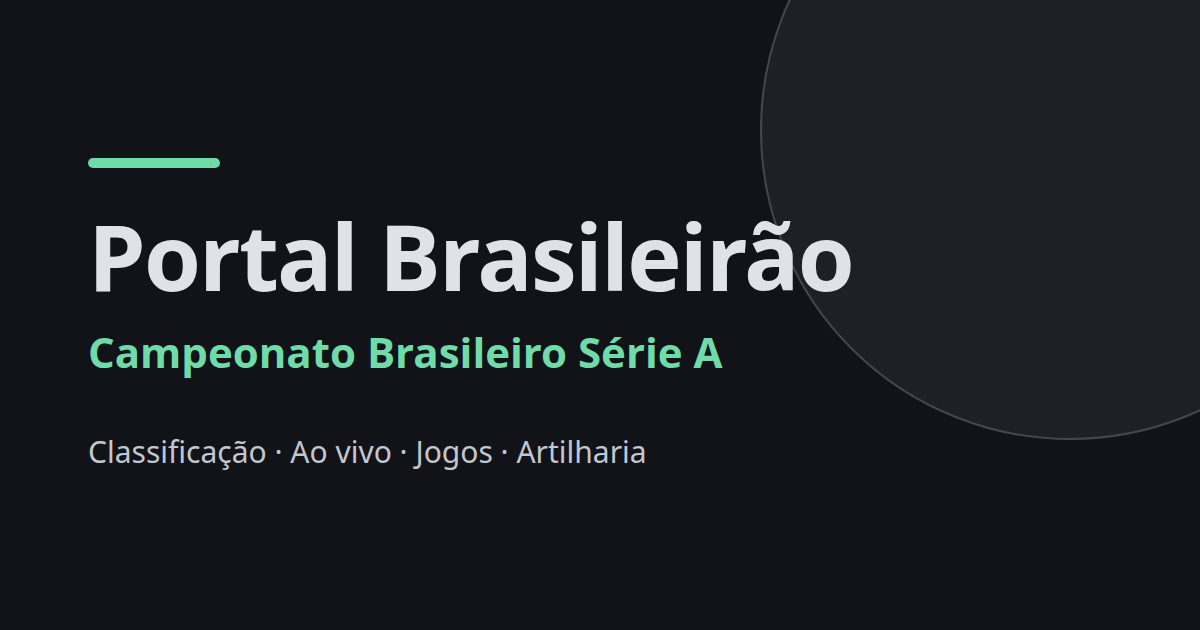
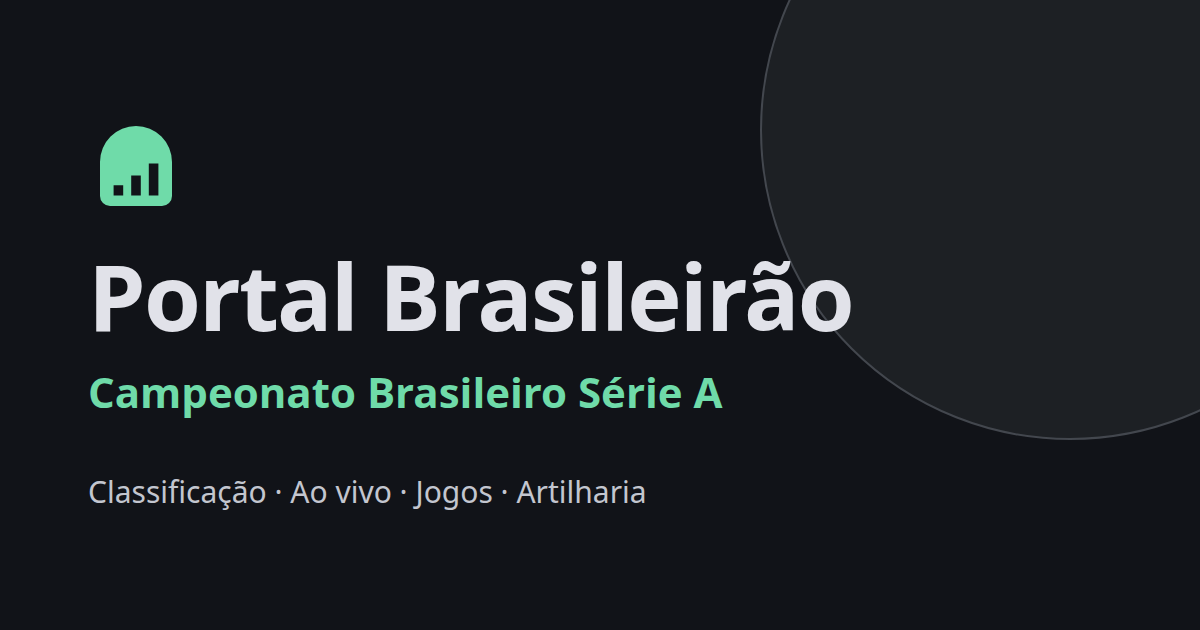
The mark reaches the share card, from one copy of its path
A link to the site unfurled with the wordmark and a 132x10 primary bar
above it. That bar was a placeholder for a brand mark this app did not
have; #300 gave it one, so the mark takes the bar's place rather than
sitting beside it — an accent beside an accent is two accents.

96px, because the card is read as a thumbnail in most feeds and the arch
has to survive next to 92px type.

The off-canvas disc stays, but its comment does not. It was introduced as
"a hint of a ball", and the mark is deliberately not a ball — a site badge
among twenty club crests reads as a twenty-first club. What it still does
is give the flat surface a second tone in the corner the type does not
reach, which is worth keeping under an honest description.

`brand-core.ts` is the reason this is more than a script edit. Drawing the
mark here would have made a FOURTH literal copy of the path, beside
`BrandMark.tsx`, `public/logo.svg` and `public/favicon.svg` — exactly the
drift `StatusChip` and `GLYPH` exist to stop, one asset type further out.
The two TypeScript call sites now import it and the compiler keeps them
honest.

The two `.svg` files cannot import anything and always will hold their own
copy, so `tests/brand-mark.test.ts` reads them off disk and asserts they
match. That failure is invisible from every direction otherwise: a path
edited in one place and not the other type-checks, builds, passes all 804
specs, and ships a tab icon subtly different from the header. It also
[…]

Changed region(s): [[0.0617, 0.3317, 0.7092, 0.6635], [0.0617, 0.6937, 0.555, 0.8143], [0.0617, 0.181, 0.185, 0.3317]]

diff --git a/scripts/generate-og-image.ts b/scripts/generate-og-image.ts
@@ -38,6 +38,7 @@ import { chromium } from "@playwright/test";
 // The size and the output path come from the module that advertises them in
 // `og:image:width`/`height`. A second copy here is how the tags come to promise
 // a box the file does not fill.
+import { BRAND_MARK_PATH, BRAND_MARK_VIEWBOX } from "@/brand-core";
 import { OG_IMAGE_HEIGHT, OG_IMAGE_PATH, OG_IMAGE_WIDTH } from "@/page-meta-core";
 
 const OUT_PATH = path.join(process.cwd(), "public", OG_IMAGE_PATH.replace(/^\//, ""));
@@ -95,16 +96,27 @@ const card = (t: Record<TokenName, string>): string => `<!doctype html>
     display: flex; flex-direction: column; justify-content: center;
     padding: 0 88px; position: relative; overflow: hidden;
   }
-  /* Off-canvas disc: a hint of a ball without depending on an emoji font
-     being installed on whichever machine runs this. */
+  /* Off-canvas disc. It was introduced as "a hint of a ball", and it is not
+     one any more: the card now carries the real mark, and the mark is
+     deliberately not a ball — a site badge among twenty club crests reads as a
+     twenty-first club. What it still does is give the flat surface a second
+     tone in the corner the type does not reach, which is worth keeping. */
   .disc {
     position: absolute; right: -180px; top: -180px;
     width: 620px; height: 620px; border-radius: 50%;
     background: ${t["color-surface-container"]};
     border: 2px solid ${t["color-outline-variant"]};
   }
-  .rule { width: 132px; height: 10px; border-radius: 5px;
-          background: ${t["color-primary"]}; margin-bottom: 40px; }
+  /* The mark, where a 132x10 primary bar used to stand in for one. That bar
+     was a placeholder for a brand mark this app did not have; keeping both
+     would be an accent beside an accent. 96px because the card is read as a
+     thumbnail in most feeds, where the arch has to survive alongside 92px
+     type. It carries no <title> and is aria-hidden by omission: this is a
+     raster in the end, and the alt text is whatever the sharing surface
+     shows. */
+  .mark { width: 96px; height: 96px; margin-bottom: 34px; position: relative;
+          color: ${t["color-primary"]}; }
+  .mark svg { display: block; width: 100%; height: 100%; }
   h1 { font-size: 92px; line-height: 1.04; font-weight: 800; letter-spacing: -0.02em;
        color: ${t["color-on-surface"]}; position: relative; }
   h2 { font-size: 42px; line-height: 1.25; font-weight: 600; margin-top: 22px;
@@ -113,7 +125,7 @@ const card = (t: Record<TokenName, string>): string => `<!doctype html>
               color: ${t["color-on-surface-variant"]}; position: relative; }
 </style></head><body>
   <div class="disc"></div>
-  <div class="rule"></div>
+  <div class="mark"><svg viewBox="${BRAND_MARK_VIEWBOX}" fill="currentColor" xmlns="http://www.w3.org/2000/svg"><path fill-rule="evenodd" d="${BRAND_MARK_PATH}" /></svg></div>
   <h1>Portal Brasileirão</h1>
   <h2>Campeonato Brasileiro Série A</h2>
   <p class="sections">Classificação &middot; Ao vivo &middot; Jogos &middot; Artilharia</p>

diff --git a/tests/brand-mark.test.ts b/tests/brand-mark.test.ts
@@ -1,0 +1,65 @@
+/**
+ * The brand mark is drawn in four places and only two of them can import a
+ * constant. This is what holds the other two to it.
+ *
+ * `src/components/BrandMark.tsx` and `scripts/generate-og-image.ts` both take
+ * the geometry from `brand-core.ts`, so the compiler already keeps those two
+ * honest. `public/logo.svg` and `public/favicon.svg` are files a browser
+ * fetches by URL — they cannot import anything, and nothing in the build reads
+ * them, so a path edited in one place and not the other type-checks, builds,
+ * passes every end-to-end spec and ships a tab icon subtly different from the
+ * header. That is the failure this file exists for, and it is invisible for
+ * exactly as long as nobody puts the two side by side.
+ *
+ * It asserts the *data* rather than the code, like `tests/player-photos.test.ts`:
+ * the thing that can be wrong is a string inside an asset, and no type reaches
+ * it.
+ */
+import assert from "node:assert/strict";
+import { readFileSync } from "node:fs";
+import path from "node:path";
+import test from "node:test";
+
+import {
+  BRAND_MARK_PATH,
+  BRAND_MARK_VIEWBOX,
+  BRAND_MARK_VIEWBOX_TIGHT,
+} from "@/brand-core";
+
+const read = (file: string): string =>
+  readFileSync(path.join(process.cwd(), "public", file), "utf8");
+
+const attr = (svg: string, name: string): string | undefined =>
+  svg.match(new RegExp(`${name}="([^"]*)"`))?.[1];
+
+for (const file of ["logo.svg", "favicon.svg"]) {
+  test(`${file} draws the same path as brand-core`, () => {
+    assert.equal(attr(read(file), "d"), BRAND_MARK_PATH);
+  });
+
+  test(`${file} sets fill-rule="evenodd"`, () => {
+    // Without it the three bars fill solid under the default `nonzero` rule
+    // and the mark renders as a plain arch — a silent, total loss of the
+    // thing the mark is *of*, with the file still valid SVG.
+    assert.equal(attr(read(file), "fill-rule"), "evenodd");
+  });
+}
+
+test("logo.svg uses the padded grid and favicon.svg the tight crop", () => {
+  // Not interchangeable: the favicon is read at 16px, where the grid's 3px of
+  // transparent margin is a fifth of the slot. Swapping them is the one way
+  // these two files are allowed to differ, so it is asserted rather than left
+  // to whoever edits them next.
+  assert.equal(attr(read("logo.svg"), "viewBox"), BRAND_MARK_VIEWBOX);
+  assert.equal(attr(read("favicon.svg"), "viewBox"), BRAND_MARK_VIEWBOX_TIGHT);
+});
+
+test("both files carry a licence-free, theme-aware fill rather than one colour", () => {
+  // A file loaded as an image inherits no `currentColor`, so each carries its
+  // own palette. If a `prefers-color-scheme` block is ever dropped, the mark
+  // becomes invisible in one of the two themes — on a tab strip, silently.
+  for (const file of ["logo.svg", "favicon.svg"]) {
+    const svg = read(file);
+    assert.match(svg, /@media \(prefers-color-scheme: dark\)/, `${file} has no dark block`);
+  }
+});

diff --git a/brand-core.ts b/brand-core.ts
@@ -1,0 +1,48 @@
+/**
+ * brand-core.ts
+ * -------------
+ * The one copy of the brand mark's geometry.
+ *
+ * The mark — an arch, the portal, with a rising campanha knocked out of it —
+ * is drawn in four places that cannot import each other's markup:
+ * `src/components/BrandMark.tsx` for the header, `public/logo.svg` and
+ * `public/favicon.svg` as static files a browser loads directly, and the
+ * link-preview card that `scripts/generate-og-image.ts` renders. Four literal
+ * copies of one path is exactly the drift `StatusChip` and `GLYPH` exist to
+ * stop, one asset type further out.
+ *
+ * The two TypeScript call sites import from here, so they cannot disagree.
+ * **The two `.svg` files still hold their own copy and always will** — a file
+ * a browser fetches by URL cannot import a module — so
+ * `tests/brand-mark.test.ts` reads them off disk and asserts they match this
+ * constant. That is the same shape as `tests/player-photos.test.ts` asserting
+ * the *data* rather than the code: the compiler cannot reach a string inside
+ * an SVG file, and a mark that is a shade different in the tab from the one in
+ * the header is the kind of thing nobody notices for months.
+ *
+ * Pure, no I/O, root-level `*-core.ts` like every other module of that name —
+ * though it holds a constant rather than a calculation, which is why there is
+ * nothing here to unit-test beyond the agreement above.
+ */
+
+/**
+ * The mark as a single `d`, with **`fill-rule="evenodd"`** — that attribute is
+ * not optional decoration. The three bars are subpaths *inside* the arch, and
+ * under the default `nonzero` rule they would fill solid and the mark would be
+ * a plain arch. Every call site must set it.
+ *
+ * Drawn on a 24x24 grid, matching `SectionIcons.tsx`, so the mark and the nav
+ * glyphs take the same `size-*` utilities and land on the same optical size.
+ */
+export const BRAND_MARK_PATH =
+  "M3 11A9 9 0 0 1 21 11V19.5A2.5 2.5 0 0 1 18.5 22H5.5A2.5 2.5 0 0 1 3 19.5ZM6.4 19.4V16.8H8.8V19.4ZM10.8 19.4V14.4H13.2V19.4ZM15.2 19.4V11.4H17.6V19.4Z";
+
+/** The drawing grid, shared with the icon set. */
+export const BRAND_MARK_VIEWBOX = "0 0 24 24";
+
+/**
+ * The mark's own bounding box, for a slot where it must fill the frame rather
+ * than sit inside the grid's margin — a 16px favicon, or a tile. Cropping by
+ * viewBox rather than by a second path keeps one geometry.
+ */
+export const BRAND_MARK_VIEWBOX_TIGHT = "3 2 18 20";

diff --git a/src/components/BrandMark.tsx b/src/components/BrandMark.tsx
@@ -31,7 +31,14 @@
  * `text-primary` and both palettes follow. `public/logo.svg` carries the same
  * geometry with explicit fills and a `prefers-color-scheme` block, because a
  * file loaded as an image inherits no colour from anything.
+ *
+ * **The geometry itself lives in `brand-core.ts`**, not here. Four things draw
+ * this mark — this component, the two `.svg` files and the link-preview card —
+ * and only the two TypeScript ones can share a constant; `tests/brand-mark.test.ts`
+ * holds the SVGs to it by reading them off disk.
  */
+
+import { BRAND_MARK_PATH, BRAND_MARK_VIEWBOX } from "@/brand-core";
 
 interface BrandMarkProps {
   /** Tailwind classes for size and colour; the path inherits `currentColor`. */
@@ -46,16 +53,13 @@ interface BrandMarkProps {
 export function BrandMark({ className }: BrandMarkProps) {
   return (
     <svg
-      viewBox="0 0 24 24"
+      viewBox={BRAND_MARK_VIEWBOX}
       className={className}
       fill="currentColor"
       aria-hidden
       focusable={false}
     >
-      <path
-        fillRule="evenodd"
-        d="M3 11A9 9 0 0 1 21 11V19.5A2.5 2.5 0 0 1 18.5 22H5.5A2.5 2.5 0 0 1 3 19.5ZM6.4 19.4V16.8H8.8V19.4ZM10.8 19.4V14.4H13.2V19.4ZM15.2 19.4V11.4H17.6V19.4Z"
-      />
+      <path fillRule="evenodd" d={BRAND_MARK_PATH} />
     </svg>
   );
 }
